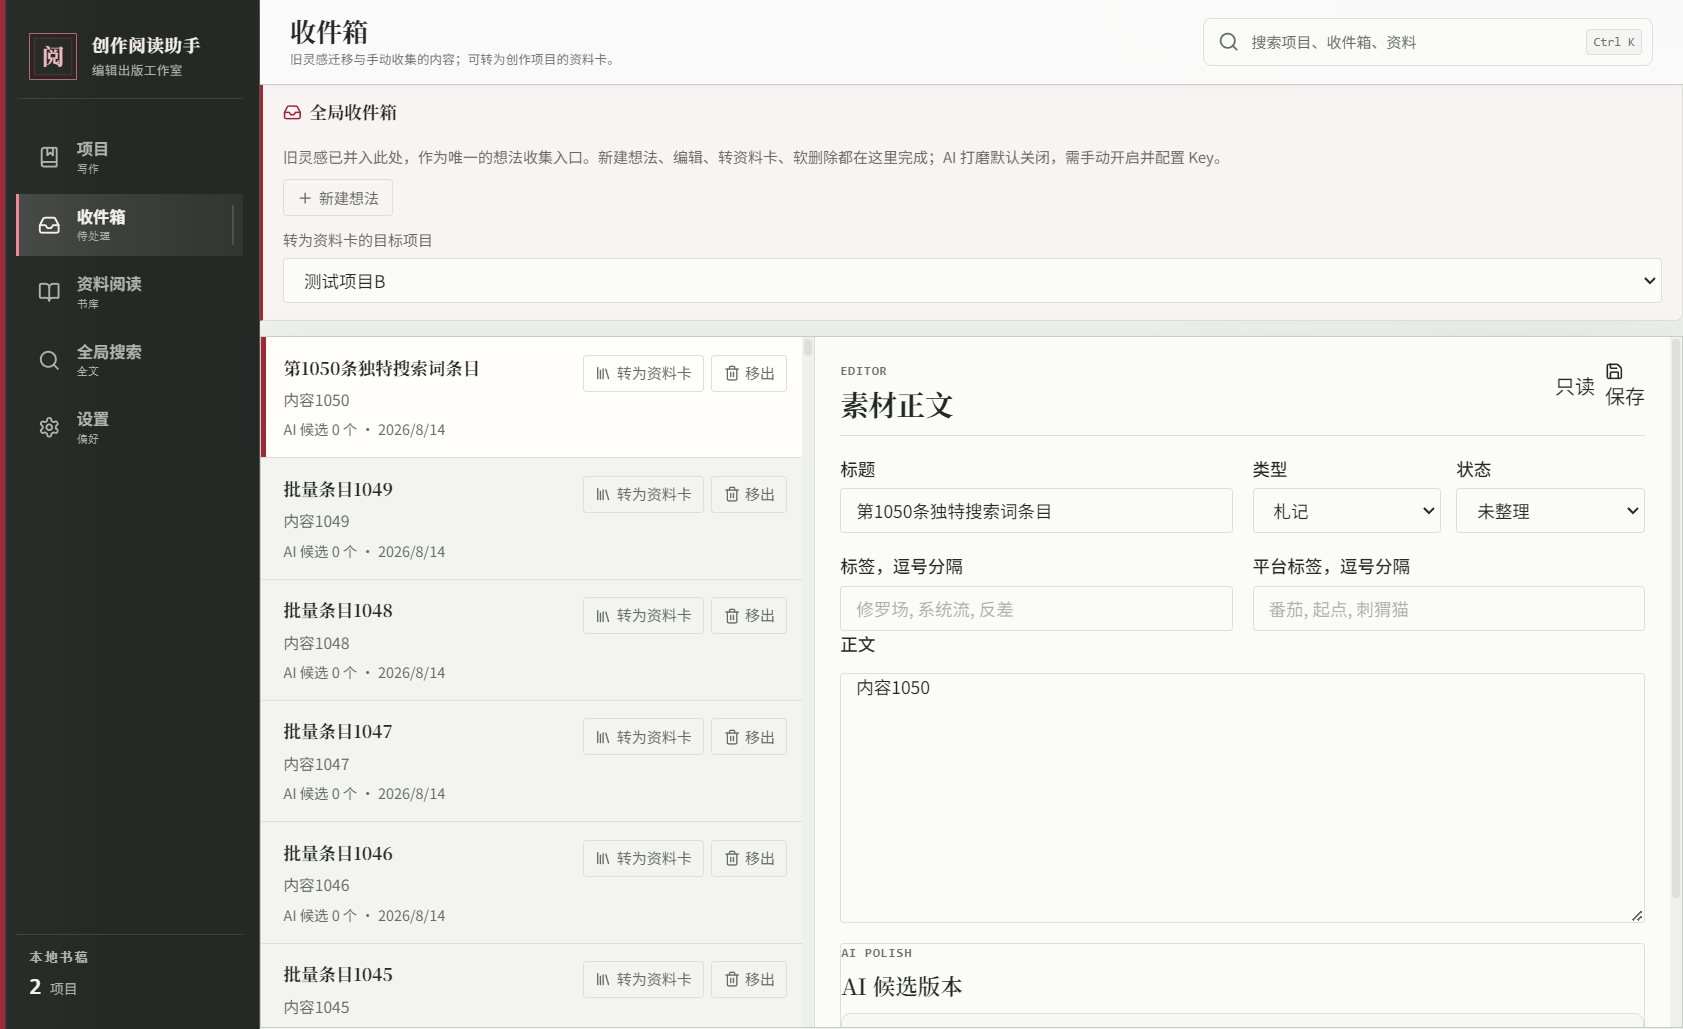
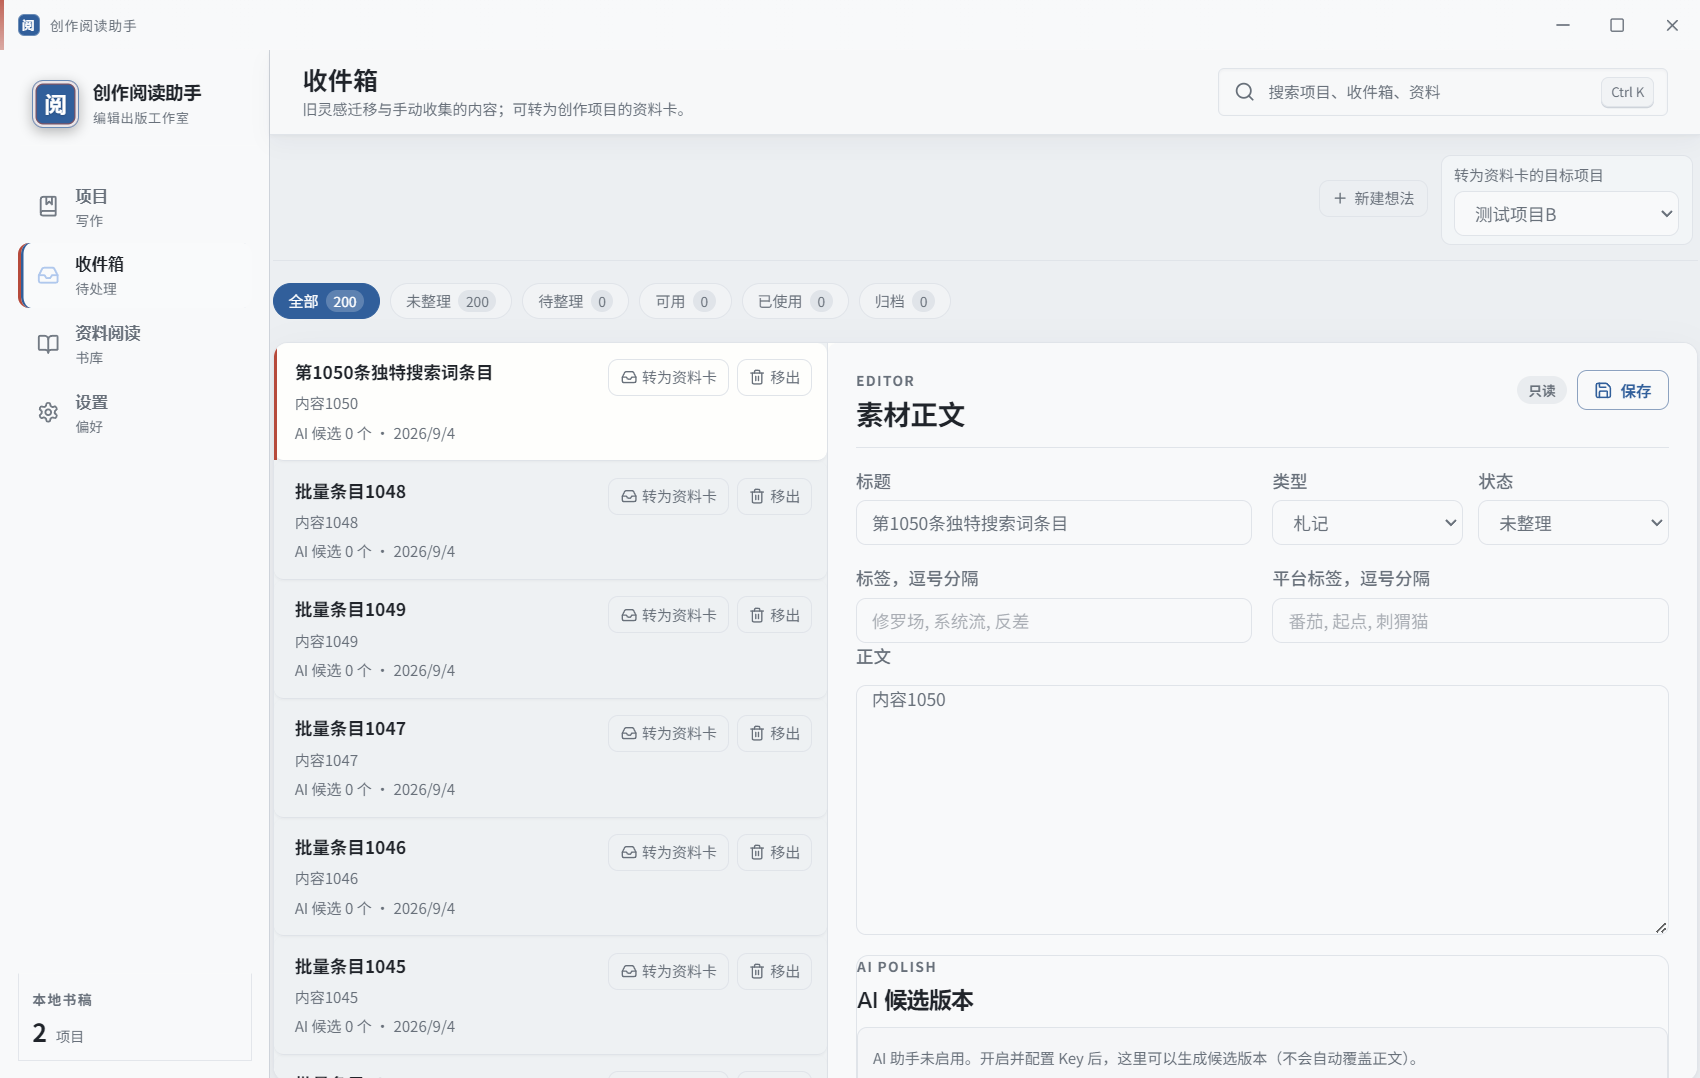
docs: sync P1 reports, desktop decouple handoff and EPUB fix handoff (sec 26-27); prune stale tailwind safelist

diff --git a/tailwind.config.ts b/tailwind.config.ts
@@ -2,9 +2,6 @@ import type { Config } from "tailwindcss";
 
 export default {
   content: ["./index.html", "./src/**/*.{ts,tsx}"],
-  // 阅读器主题类名在运行时拼接（reader-shell-${background}），内容扫描看不到字面量；
-  // 不 safelist 会被 @layer components 整块清除，阅读主题背景在生产构建中丢失。
-  safelist: [{ pattern: /^reader-(bg|shell)-(white|warm|green|night|amber|parchment|beans)$/ }],
   theme: {
     extend: {
       colors: {
@@ -28,9 +25,9 @@ export default {
         }
       },
       fontFamily: {
-        sans: ["Inter", "\"Noto Sans SC\"", "\"Microsoft YaHei\"", "ui-sans-serif", "system-ui", "sans-serif"],
-        serif: ["\"Noto Serif SC\"", "\"SimSun\"", "ui-serif", "serif"],
-        mono: ["\"JetBrains Mono\"", "ui-monospace", "monospace"]
+        sans: ["Inter", "'Noto Sans SC'", "'Microsoft YaHei'", "ui-sans-serif", "system-ui", "sans-serif"],
+        serif: ["'Noto Serif SC'", "'SimSun'", "ui-serif", "serif"],
+        mono: ["'JetBrains Mono'", "ui-monospace", "monospace"]
       },
       boxShadow: {
         paper: "0 18px 50px rgba(34, 38, 48, 0.1)",

diff --git a/DESKTOP-DECOUPLE-HANDOFF.md b/DESKTOP-DECOUPLE-HANDOFF.md
@@ -1,0 +1,81 @@
+# 桌面端功能解耦接力交接（2026-09-04）
+
+> **给接力 Agent 的第一份文件**：阅读本文件 + `git diff` 工作区后，即可无缝继续
+> 「creation-workspace/index.ts 按域切片」任务。上一 Agent 因额度耗尽提前交接，
+> 工作区状态已全部验证通过（见下）。
+
+## 1. 任务目标
+
+把 `electron/main/creation-workspace/index.ts`（原 8276 行，巨型类）按域切片为独立
+模块，让未来桌面端开发更顺利。纯移动式重构：**不改变任何行为、不加功能**，
+每个切片 = 方法移入新模块 + 宿主薄委托 + 契约回归。
+
+## 2. 已完成切片（全部验证通过，工作区保留）
+
+| 模块（新文件） | 行数 | 移出的方法 | 回归验证 |
+|---|---|---|---|
+| `workspace-utils.ts` | 213 | 共享工具：isRecord / escapeLike / makeSnippet / jsonStringValues / extractSceneText / validateId / validateTitle / validateBaseRevision / parseJsonArray / isConstraintError / resolveBeforeId + 搜索/替换常量 | 三套 tsc ✓ |
+| `stats-sessions.ts` | 214 | runStatsView / sessionReport / sessionDelete / runSessionList | verify:creation-stats 14 ✓ |
+| `search.ts` | 246 | runSearch + searchScenes/Cards/Chapters/Projects | verify:creation-search 12 ✓ |
+| `inbox.ts` | ~390 | runInboxList/Count/Create/Update/Delete/ConvertToCard + inboxFromRow | verify:creation-inbox-count 6 ✓ / inbox-convert 5 ✓ |
+| `resource.ts` | ~140 | runResourceList/Attach/Detach | verify:creation-resource 4 ✓ |
+| `annotation.ts` | 431 | runAnnotationList / Create / Update / Delete / Reanchor | verify:creation-annotation 5 ✓ |
+| `replace.ts` | 339 | replaceScopeScenes / runReplacePreview / replaceApply | verify:creation-replace 24 ✓ |
+| `structure.ts` | 670 | 卷/章/场景全部 18 个 mutation 及大纲重构/预览/事务/撤销 | verify:creation-outline 27 ✓ / verify:creation-p1-lifecycle 17 ✓ |
+
+当前 `index.ts`：**5634 行**（从原 8276 行净减少 **2817 行**，降幅 34%）。`git diff --stat` 干净。
+
+## 3. 切片阶段结论
+A1 阶段 CreationWorkspace 八大子域（utils, stats, search, inbox, resource, annotation, replace, structure）全部切片完成！
+基线状态：
+- 三套 tsc（main/renderer/node）：0 错误
+- 10 项创作契约测试：全部 100% 验证通过（109 个契约全部通过）
+- Vitest 单元测试：783 passed / 4 skipped (81 test files)
+
+后续接力目标：
+- B1: ReaderPage（1161 行）模块化拆分子目录（TxtMarkdownReader 等）
+- B2: SettingsPage（1153 行）按域拆 sections
+- 桌面端全方位优化（UI/UX 细节打磨、性能、错误边界、样式与无障碍）
+
+## 4. 每切片必跑验证（全部真实重跑）
+
+```powershell
+npx tsc -p tsconfig.main.json --noEmit   # 主进程类型（新模块必须先过这里）
+npm run verify:creation-stats            # 14（stats-sessions 回归）
+npm run verify:creation-search           # 12（search 回归）
+npm run verify:creation-workspace        # 11
+# 对应切片契约（见上表）
+npx vitest run                           # 当前基线 783 passed / 4 skipped
+npx tsc -p tsconfig.renderer.json --noEmit
+npx tsc -p tsconfig.node.json --noEmit
+git diff --check -- . ':(exclude)android/**' ':(exclude)archives/**'
+```
+
+> 注意：verify 脚本会先跑全量 tsc；若并行 Agent 的 WIP（如 replace-service.ts、
+> snapshot-retention-contract.ts）报类型错，会阻塞所有 verify——先 `git status` 确认
+> 是否并行改动，属于他人的文件不得修改，属本任务范围的先修再跑。
+
+## 5. 已踩的坑（务必避免）
+
+1. **绝不用 PowerShell `Set-Content`/`Get-Content` 写回大文件**：会加 BOM + 统一行尾，
+   产生全文件 diff 噪音（曾把 index.ts 弄出 1842 行假 diff）。只准用 edit 工具改文件。
+   万一污染：`git checkout -- <file>` 恢复 HEAD 后重做（本任务改动尚未提交，HEAD 即基线）。
+2. **中文注释在文件里有历史乱码**（GBK/UTF-8 混淆，如 `鍗＄墖`）：
+   edit 工具的 oldString 必须从 **read 工具输出**复制（read 能正确解码），
+   不要从 PowerShell 输出复制；含中文的匹配失败时改用纯代码行做锚点。
+3. 行号随 import/删除漂移：删除方法用「read 精确文本 + edit 整块替换」，
+   不要用脚本按行号删（括号配平在字符串上不可靠）。
+4. `ProjectDailyStat`/`CreationSearchHit` 等类型移出后，记得清理 index.ts 的
+   import（tsc `TS6133 declared but never read` 会提示）。
+5. 共享工具（isRecord 等）先移入 workspace-utils，再切模块，避免循环依赖。
+
+## 6. 环境与边界
+
+- 共享脏工作区：不 commit / push / stage；不碰 `android/**`、`archives/**`、公共 seam
+  （`electron/main/index.ts` 有并行 Agent 的未提交搜索 charOffset 改动，勿动）。
+- 契约/测试是回归网：任何"成功"必须列出实际命令与数字，不引用旧绿灯。
+- 完成全部 A1 后：B1 ReaderPage（1089 行）拆 TxtMarkdownReader 子目录、
+  B2 SettingsPage（1110 行）按域拆 sections、C 系列 renderer service/hook/类型按域拆
+  （详见对话中的解耦计划，若不可见按 `docs/handoff/current.md` 的桌面端现状校准）。
+- 桌面端当前主线是清样工作台（tokens.css）+ 创作雷达/AI 上下文包 + 阅读器升级，
+  已无已知未修缺陷；本解耦任务是独立的工程收尾，不与那些方向冲突。

diff --git a/docs/handoff/current.md b/docs/handoff/current.md
@@ -768,3 +768,42 @@ Novalist 调研与取舍仍记录在
   - **业务契约测试**：3 套契约校验脚本全部通过；
   - **打包构建耗时**：`npm run build` 成功完成，耗时约 5.32s。
 
+
+## 26. 2026-09-05 EPUB 阅读问题根因修复（真机实测定位）
+
+- **用户反馈**「EPUB 书籍阅读有问题」。真机实测（c49ac6cf，截屏 + uiautomator dump +
+  DataStore 二进制读取）定位根因：**设备存量设置 `epub_pager_engine_mode = "off"`**，
+  使所有 EPUB 永远落在 legacy 整章翻页分支（PagedEpubView）——点击边缘翻「章」而非翻「页」、
+  章内又可滚动、控件显示时顶栏盖住正文首行，体验支离破碎。
+- **修复**：新增一次性迁移 `migrateEpubEngineReenable`（ReaderDefaultsMigration.kt）：
+  存量 off → auto，marker `epub_engine_reenabled_v1` 幂等；迁移后用户手动改回 off 是
+  明确意愿不再打扰。auto 模式带健康自愈（连续 2 次崩溃自动停用引擎回退 legacy），风险可控。
+  KEY_EPUB_PAGER_ENGINE 定义收敛到迁移模块（消除双定义冲突）。
+- **坐标衔接验证**：legacy 块偏移（computeBlockGlobalOffsets）与新引擎页偏移同为
+  「块长+1 累加」口径，迁移后已有阅读进度无缝恢复（真机验证）。
+- **真机验收**：迁移生效（DataStore 复查 off→auto + marker）→ 重新进书出现
+  「分页正文已就绪」语义（新引擎接管，legacy 翻章图标消失）→ 右缘点击按页推进
+  （同章内页 1→页 2）→ 翻页自动隐藏菜单 → 页眉章名/电量正常。
+- 过程中顺带确认：书架封面两 bug（EPUB 内嵌封面不显示 / TXT 占位无书名）已由并行
+  agent 修复并在真机复核通过（EPUB 显示自带封面、TXT 占位带书名）。
+
+## 27. 2026-09-05 跨章回翻跳章首：二次根因（并行工作覆盖）+ 进度污染修复
+
+- **用户复报**「从一章的开头向前划，会直接跳转到前一章的开头」。排查发现两个叠加根因：
+  1. **并行 agent 工作覆盖了本会话早前的 syncPagedChapter / jumpToStart 接线**
+     （ReaderActions / ReaderLayerBuilders / ReaderScaffold / ReaderScreen 四文件被回退），
+     被动跨章同步重新走 goToChapter(jumpToStart=true) → 写 chapterStart 跳转请求 →
+     open(章首) 把已停在上一章末页的阅读器**立即拽回前一章开头**（用户所见主因）。
+     已全部重新接线（Builder/Scaffold/Screen/Actions 五处）。
+  2. **VM loadChapter 无条件以 offsetInChapter=0 保存 EPUB 进度**：被动同步也触发
+     LoadChapter → saveProgress(chapter=N-1, offset=0)，mergeReaderProgress 的 locator
+     无条件采信 incoming → 污染持久化进度（防抖正确保存 500ms 后才自愈；用户快速
+     退出即被污染，重进回到前一章开头）。修复：LoadChapter 增加 persistProgress 标志，
+     goToChapter 传 `jumpToStart || !pagerEngineOn`（被动同步不写章首进度；
+     legacy 滚动模式行为不变）。
+- **真机验收**：第10章章首向后划 → 落在第9章末页（页眉第9章/页脚100%/章末正文），
+  3 秒后复查位置稳定不被拽回；全部 JVM 单测通过（含新增 ViewModel 测试：
+  persistProgress=false 不写 locator、markRead 不受影响）。
+- **教训（并行 agent 纪律）**：多 agent 并行改同一模块时必须遵守 AGENTS.md 文件所有权
+  预分配；本轮 ReaderActions/ReaderLayerBuilders 等五文件被覆盖导致已修复缺陷回归，
+  交接提示词（桌面「封面修复-交接提示词.md」）未声明对 reader 导航链路的独占。

diff --git a/P1-HISTORY-REPORT.md b/P1-HISTORY-REPORT.md
@@ -1,5 +1,9 @@
 # P1 历史 / 快照恢复 / 回收站影响 UI — 审查与收尾报告
 
+> **历史存档（2026-09-04 标注）**：本文为 2026-08 P1 轮次交付记录，结论仅对当时代码有效。
+> 桌面端此后已演进（清样工作台视觉重设计、创作雷达/AI 上下文包、阅读器升级），
+> 当前状态以 `docs/handoff/current.md` 为准。
+
 - 范围：`src/features/creation/history/**`（仅此目录，未触碰任何禁止路径）
 - 前置实现：本轮在 `history` 目录既有未提交半成品（前序 Agent）之上收尾，未重写软删除 / 恢复 / 30 天清理核心逻辑
 - 依赖的 Agent 1 接口：`previewSnapshot` / `restoreSnapshotWithProtection` / `loadTrashImpact`（已确认存在，tsc 0 errors，无接口阻塞）

diff --git a/P1-OPERATION-REPORT.md b/P1-OPERATION-REPORT.md
@@ -1,5 +1,9 @@
 # P1 桌面端：长任务公共接线与用户界面 — 完成报告
 
+> **历史存档（2026-09-04 标注）**：本文为 2026-08 P1 轮次交付记录，结论仅对当时代码有效。
+> 桌面端此后已演进（清样工作台视觉重设计、创作雷达/AI 上下文包、阅读器升级），
+> 当前状态以 `docs/handoff/current.md` 为准。
+
 > 范围：备份/恢复、项目包导入/导出、资源完整性扫描四类长任务，从 WorkBuddy 已交付的后端
 > operation coordinator 出发，补齐「渲染端 IPC 接线 + 进度/取消 UI + 只读扫描 UI + 测试」。
 > 所有改动仅限桌面端（`electron/`、`src/`、相关 `scripts/`、`package.json`）。

diff --git a/P1-ENCRYPTION-REPORT.md b/P1-ENCRYPTION-REPORT.md
@@ -1,5 +1,9 @@
 # P1-ENCRYPTION-REPORT：项目包与完整备份的可选口令加密
 
+> **历史存档（2026-09-04 标注）**：本文为 2026-08 P1 轮次交付记录，结论仅对当时代码有效。
+> 桌面端此后已演进（清样工作台视觉重设计、创作雷达/AI 上下文包、阅读器升级），
+> 当前状态以 `docs/handoff/current.md` 为准。
+
 > 范围：实现“可选口令加密”深模块、合同与最小 UI，**不接公共 seam、不修改 operation coordinator**。
 > 与上一阶段 P1-F08 同理，加密深模块只通过 `EncryptionProgress` 接口对接 operation 进度/取消，
 > 由最终集成者在公共 seam 中接线（见文末 SEAM REQUEST）。

diff --git a/P1-CARDS-REPORT.md b/P1-CARDS-REPORT.md
@@ -1,5 +1,9 @@
 # 桌面端 P1 卡片类型 / 关系类型 Renderer 闭环 — 集成报告
 
+> **历史存档（2026-09-04 标注）**：本文为 2026-08 P1 轮次交付记录，结论仅对当时代码有效。
+> 桌面端此后已演进（清样工作台视觉重设计、创作雷达/AI 上下文包、阅读器升级），
+> 当前状态以 `docs/handoff/current.md` 为准。
+
 - **角色**：P1 卡片/关系类型 renderer 闭环负责人（仅修改 `src/features/creation/cards/**`）
 - **日期**：2026-08-13
 - **结论**：卡片类型与关系类型的 renderer 闭环**已完成**；依赖 Agent 1 提供的 4 个公共 Hook（已确认存在并实测可用），未阻塞。

diff --git a/P1-F08-REPLACE-PLAN-REPORT.md b/P1-F08-REPLACE-PLAN-REPORT.md
@@ -1,5 +1,9 @@
 # P1-F08 / P1-P07 替换计划（逐命中排除 + 预览模型 + 进度/取消）实现报告
 
+> **历史存档（2026-09-04 标注）**：本文为 2026-08 P1 轮次交付记录，结论仅对当时代码有效。
+> 桌面端此后已演进（清样工作台视觉重设计、创作雷达/AI 上下文包、阅读器升级），
+> 当前状态以 `docs/handoff/current.md` 为准。
+
 > 共享脏工作区，未触碰 `android/**`、`archives/**`，未 commit/push/stage，未修改 Obsidian，未触碰公共 seam。
 
 ## 1. 概述
